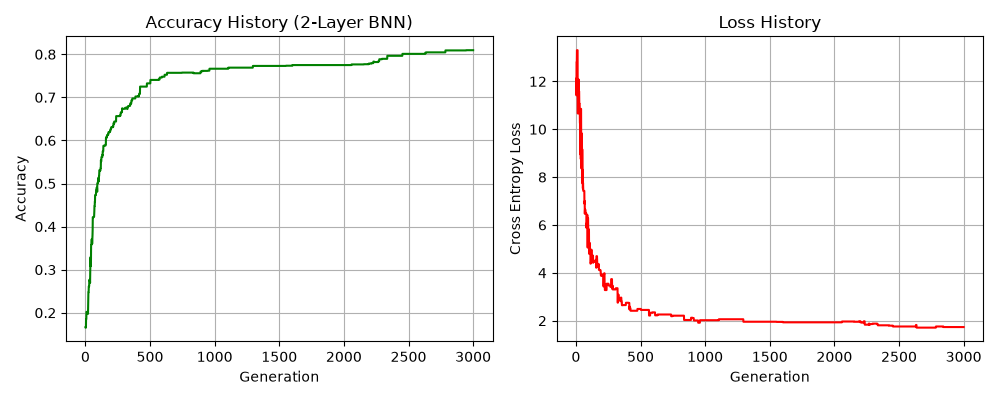
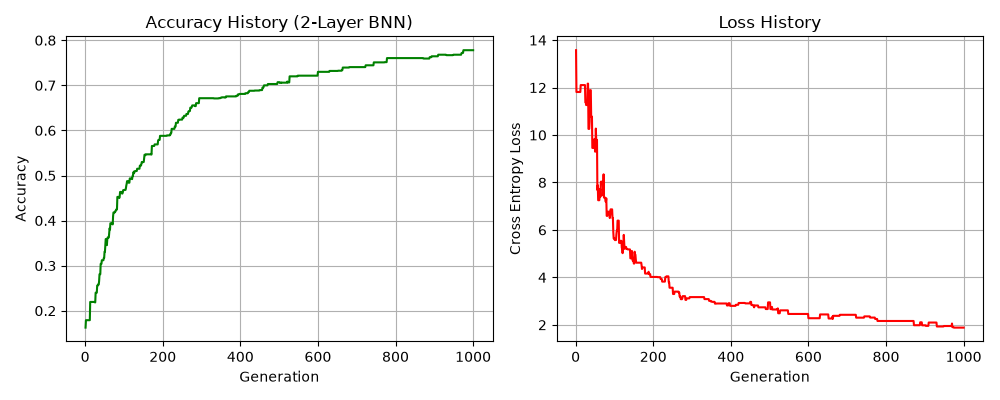
evaluate関数のmodel.eval()を.train()に変更

diff --git a/script/binarize_ga.py b/script/binarize_ga.py
@@ -9,7 +9,7 @@ class BinarizedNeuroEvo(nn.Module):
         super().__init__()
         self.fc1 = nn.Linear(784, 128, bias=False)
         # 移動平均は無視
-        self.bn1 = nn.BatchNorm1d(128, track_running_stats=False)
+        self.bn1 = nn.BatchNorm1d(128)
         self.fc2 = nn.Linear(128, 10)
 
     def forward(self, x):
@@ -37,7 +37,7 @@ def evaluate(model, w, b, x, y):
     model.bn1.bias.data   = b[128:256].clone()    
     model.fc2.bias.data   = b[256:].clone()        # fc2.bias
 
-    model.eval()
+    model.train()
     with torch.no_grad():
         outputs = model(x)
         loss = nn.functional.cross_entropy(outputs, y)
@@ -72,9 +72,9 @@ def genetic_algorithm(model, x_eval, y_eval):
     島モデルGA
     
     """
-    islands = 10
+    islands = 5
     models_per_island = 32
-    generation = 5000
+    generation = 1000
     migration_interval = 50
     mutation_strength = 0.1
     origin_mutation_strength = mutation_strength
@@ -209,6 +209,8 @@ def main():
     x_eval = torch.stack([dataset[i][0] for i in indices])
     y_eval = torch.tensor([dataset[i][1] for i in indices])
 
+    device = torch.device('cuda' if torch.cuda.is_available() else 'cpu') # デバイス判定
+    print(f"使用デバイス: {device}")
     model = BinarizedNeuroEvo()
 
     best_w, best_b, acc_history, loss_history = genetic_algorithm(model, x_eval, y_eval)
